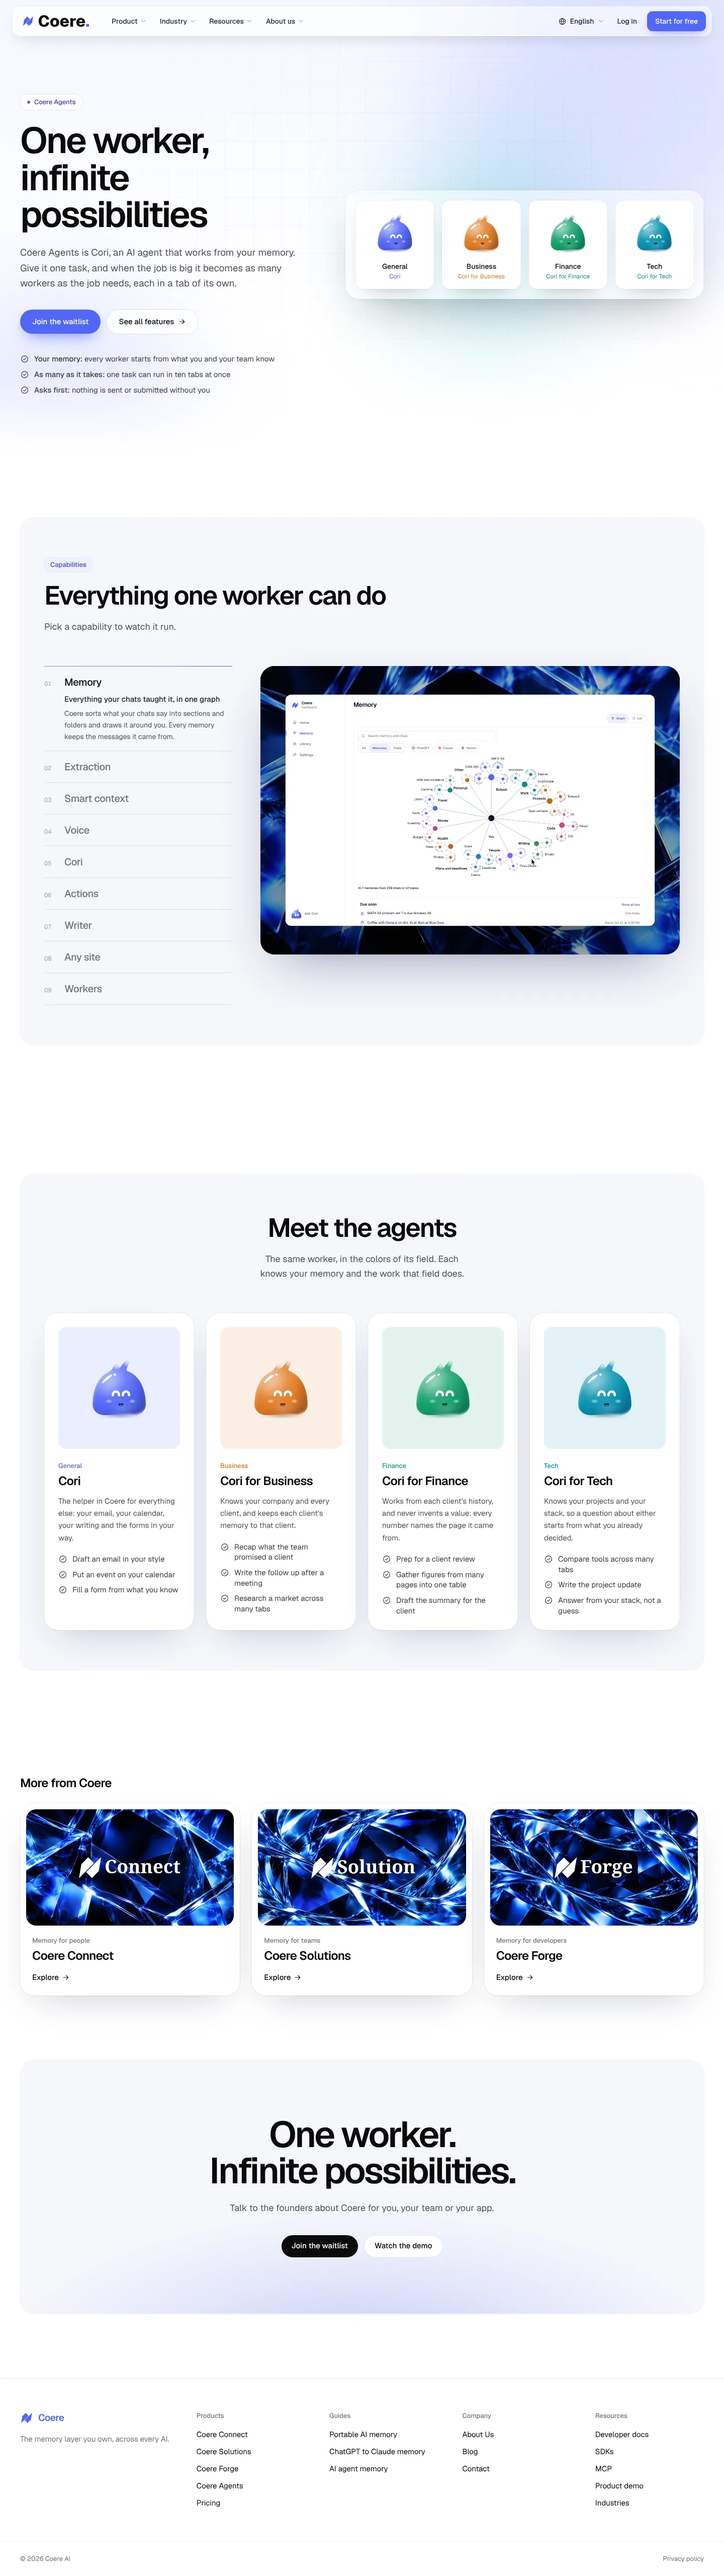
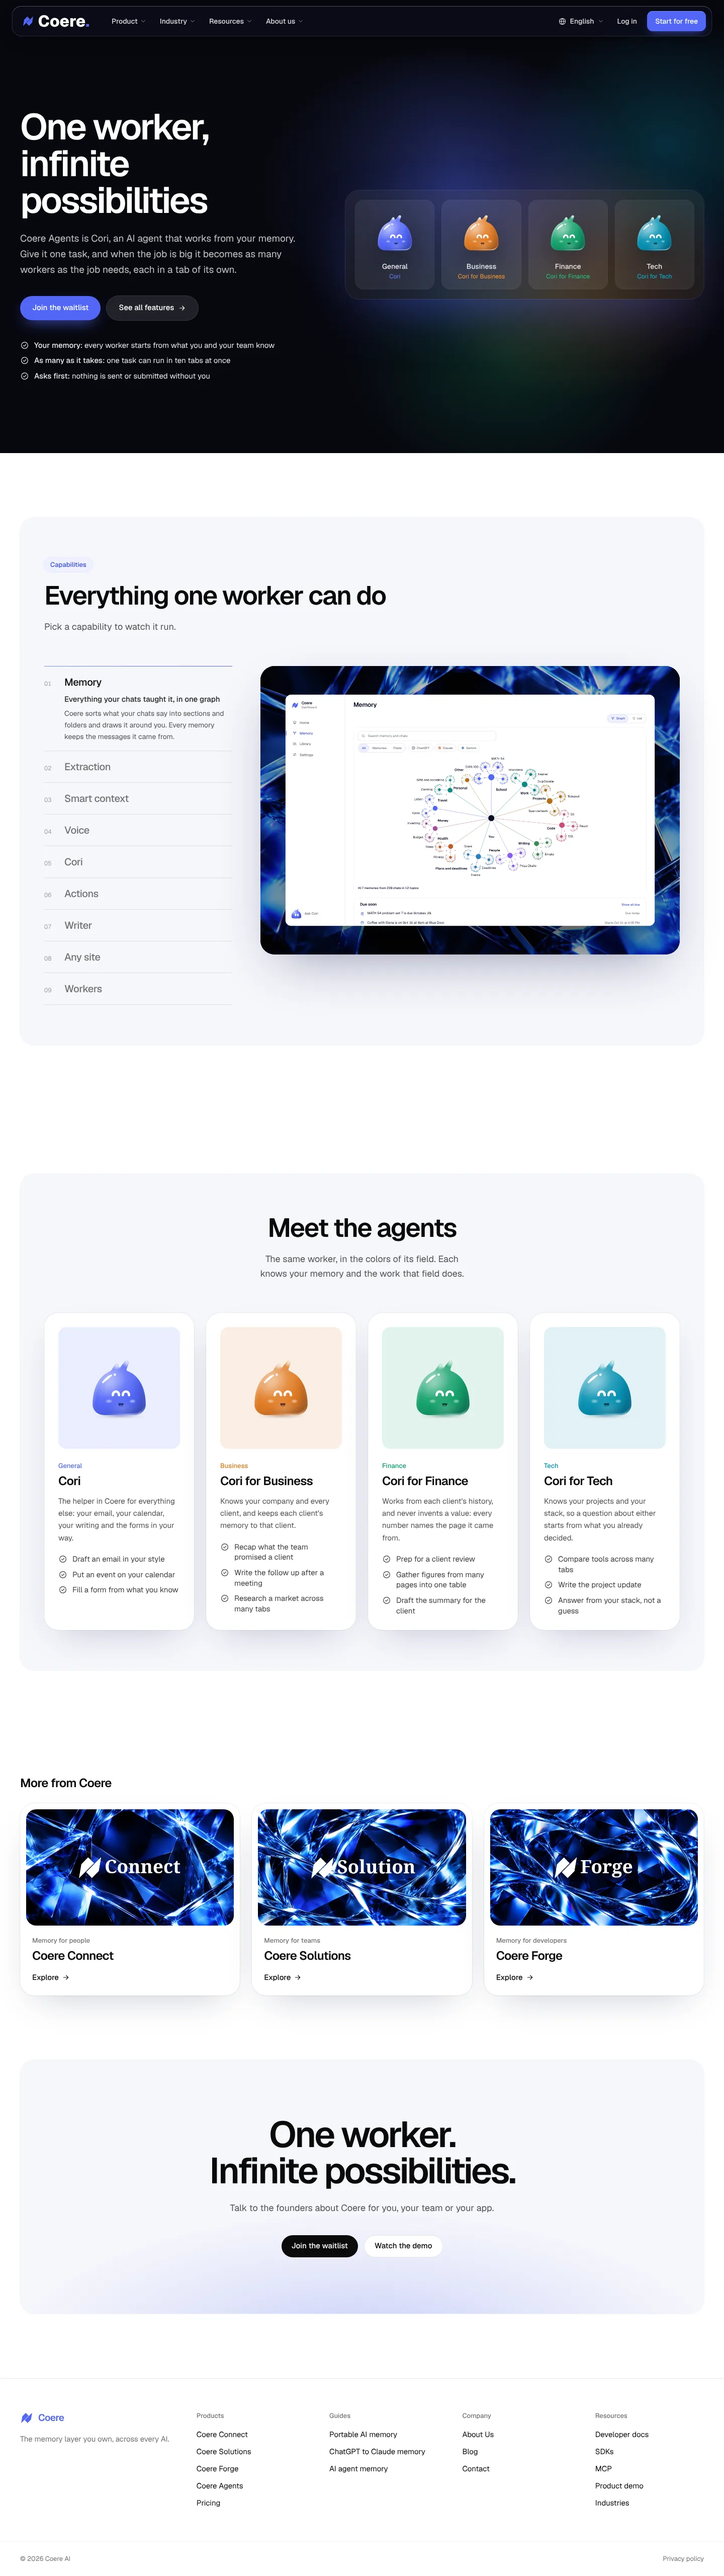
Retake the pictures of every hero this pass changed
The home, product, industry, pricing, careers, docs, waitlist and guide pictures show the heroes without the label pill, the dark home, Forge and Agents heroes, the industry photos and the beam wrapping round the app. They are taken with reduced motion, so LaserFlow and the pixel wall show their settled frame, and the captions say what each now shows.

Claude-Session: https://claude.ai/code/session_01Ur6uqNCXa3ecJ23BnM9D9o

Changed region(s): [[0.0, 0.0, 1.0, 0.1864]]

diff --git a/docs/screenshots/site/README.md b/docs/screenshots/site/README.md
@@ -8,9 +8,9 @@ Maya Collins, made up for these pictures.
 ## Home
 
 <p align="center">
-  <img src="home-hero.webp" width="100%" alt="The home page's first screen under the glass navbar: Accelerating Enterprise AI with Unified Context, the paragraph, Start for free and Watch demo on the left, and Extract all, the dashboard and the memory graph stacked on the right over blue slats, with a beam landing on the dashboard" />
+  <img src="home-hero.webp" width="100%" alt="The dark home hero under the dark glass navbar: Accelerating Enterprise AI with Unified Context, the paragraph, Start for free and Watch demo on the left over blue MicroSlats, and three tall tiles on the right: Coere saving chats cut off at the top, the dashboard with its rail, tokens saved, efficiency, time saved and recent chats, and the memory graph cut off at the foot" />
   <br />
-  <sub>The first screen under the glass navbar: what Coere does, the way in, and Extract all, the dashboard and the memory graph stacked beside it.</sub>
+  <sub>The first screen: what Coere does and the way in, beside Coere saving chats, the dashboard and the memory graph, running from the top of the hero to its foot.</sub>
 </p>
 
 | | |
@@ -27,8 +27,8 @@ The whole page: [home.webp](home.webp).
 
 | | |
 |---|---|
-| <img src="product-connect.webp" alt="The Coere Connect page from its hero down: Your memory, across every AI on blue and white iridescence, with a beam of Coere blue landing on the live app, then features by tab, the same chat with 97.7% fewer tokens, everything in Coere Connect, why people choose it and the other products" /><br /><sub>Coere Connect</sub> | <img src="product-solutions.webp" alt="The Coere Solutions page from its hero down: the hero on a dark LED wall of AI logos drawn in small square pixels round the dashboard, how a team shares one memory, the AIs it works with, everything in Coere Solutions and the other products" /><br /><sub>Coere Solutions</sub> |
-| <img src="product-forge.webp" alt="The Coere Forge page from its hero down: The memory API for your apps and agents on near black, with a dome of blue and white ASCII glyphs rising under the code, then the demo end to end, MCP, everything in Coere Forge and the other products" /><br /><sub>Coere Forge</sub> | <img src="product-agents.webp" alt="The Coere Agents page from its hero down: One worker, infinite possibilities on a soft blue backdrop beside the four agents on light glass, then the capabilities, the agents as soft cards and the other products" /><br /><sub>Coere Agents</sub> |
+| <img src="product-connect.webp" alt="The Coere Connect page from its hero down: Your memory, across every AI on Iridescence in Coere blue and white beside the live app, then features by tab, the same chat with 97.7% fewer tokens, everything in Coere Connect, why people choose it and the other products" /><br /><sub>Coere Connect</sub> | <img src="product-solutions.webp" alt="The Coere Solutions page from its hero down: the hero on a dark LED wall of AI logos drawn in small square pixels round the dashboard, with the beam washing over its top edge, how a team shares one memory, the AIs it works with, everything in Coere Solutions and the other products" /><br /><sub>Coere Solutions</sub> |
+| <img src="product-forge.webp" alt="The Coere Forge page from its hero down: The memory API for your apps and agents on a full field of blue and white ASCII glyphs over near black, with a beam of Coere blue landing on the code, then the demo end to end, MCP, everything in Coere Forge and the other products" /><br /><sub>Coere Forge</sub> | <img src="product-agents.webp" alt="The Coere Agents page from its hero down: One worker, infinite possibilities on near black beside the four agents on dark glass, then the capabilities, the agents as soft cards and the other products" /><br /><sub>Coere Agents</sub> |
 | <img src="phone-product-connect.webp" width="195" alt="The Coere Connect page's first screen at phone width, on its blue and white iridescence" /><br /><sub>Coere Connect at 390 wide</sub> | |
 
 ## Pricing
@@ -40,24 +40,24 @@ The whole page: [home.webp](home.webp).
 ## Industries
 
 <p align="center">
-  <img src="industries.webp" width="100%" alt="The industries page: Memory for every industry on a soft blue backdrop, who it is for as soft cards, then each industry with its photo" />
+  <img src="industries.webp" width="100%" alt="The industries page: Memory for every industry on white, who it is for as soft cards, then each industry with its photo" />
   <br />
   <sub>Every industry, each with the product it fits.</sub>
 </p>
 
 | | |
 |---|---|
-| <img src="industry-finance.webp" alt="The finance industry page's first screen: Coere for finance on a soft blue backdrop, with a beam of Coere blue landing on the app" /><br /><sub>Finance</sub> | <img src="industry-technology.webp" alt="The technology industry page's first screen: Coere for technology on a soft blue backdrop, with a beam of Coere blue landing on the app" /><br /><sub>Technology</sub> |
-| <img src="industry-commerce.webp" alt="The commerce industry page's first screen: Coere for commerce on a soft blue backdrop, with a beam of Coere blue landing on the app" /><br /><sub>Commerce</sub> | <img src="industry-consumer.webp" alt="The consumer industry page's first screen: Coere for consumer on a soft blue backdrop, with a beam of Coere blue landing on the app" /><br /><sub>Consumer</sub> |
-| <img src="industry-manufacturing.webp" alt="The manufacturing industry page's first screen: Coere for manufacturing on a soft blue backdrop, with a beam of Coere blue landing on the app" /><br /><sub>Manufacturing</sub> | <img src="industry-energy.webp" alt="The energy industry page's first screen: Coere for energy on a soft blue backdrop, with a beam of Coere blue landing on the app" /><br /><sub>Energy</sub> |
-| <img src="industry-education.webp" alt="The education industry page's first screen: Coere for education on a soft blue backdrop, with a beam of Coere blue landing on the app" /><br /><sub>Education</sub> | <img src="industry-legal.webp" alt="The legal industry page's first screen: Coere for legal on a soft blue backdrop, with a beam of Coere blue landing on the app" /><br /><sub>Legal</sub> |
+| <img src="industry-finance.webp" alt="The finance industry page's first screen: Coere for finance on the field's own photo beside the app" /><br /><sub>Finance</sub> | <img src="industry-technology.webp" alt="The technology industry page's first screen: Coere for technology on the field's own photo beside the app" /><br /><sub>Technology</sub> |
+| <img src="industry-commerce.webp" alt="The commerce industry page's first screen: Coere for commerce on the field's own photo beside the app" /><br /><sub>Commerce</sub> | <img src="industry-consumer.webp" alt="The consumer industry page's first screen: Coere for consumer on the field's own photo beside the app" /><br /><sub>Consumer</sub> |
+| <img src="industry-manufacturing.webp" alt="The manufacturing industry page's first screen: Coere for manufacturing on the field's own photo beside the app" /><br /><sub>Manufacturing</sub> | <img src="industry-energy.webp" alt="The energy industry page's first screen: Coere for energy on the field's own photo beside the app" /><br /><sub>Energy</sub> |
+| <img src="industry-education.webp" alt="The education industry page's first screen: Coere for education on the field's own photo beside the app" /><br /><sub>Education</sub> | <img src="industry-legal.webp" alt="The legal industry page's first screen: Coere for legal on the field's own photo beside the app" /><br /><sub>Legal</sub> |
 
 ## Resources, about and guides
 
 | | |
 |---|---|
-| <img src="resources.webp" alt="The developer docs' first page under a band of soft blue, with the list of pages on the left" /><br /><sub>The developer docs</sub> | <img src="resources-endpoints.webp" alt="The docs' Endpoints page, with each route and its parameters" /><br /><sub>One docs page: Endpoints</sub> |
-| <img src="about.webp" alt="The dark about page down to its team: the Coere mark in liquid chrome in a deep blue light over About us, then four steps from AI is fragmented to the memory is yours on glass panels" /><br /><sub>About, down to where the team starts</sub> | <img src="portable-ai-memory.webp" alt="The Portable AI memory guide, opening on a soft blue backdrop with a beam landing on the app" /><br /><sub>A guide: Portable AI memory</sub> |
+| <img src="resources.webp" alt="The developer docs' first page on white, with the list of pages on the left" /><br /><sub>The developer docs</sub> | <img src="resources-endpoints.webp" alt="The docs' Endpoints page, with each route and its parameters" /><br /><sub>One docs page: Endpoints</sub> |
+| <img src="about.webp" alt="The dark about page down to its team: the Coere mark in liquid chrome in a deep blue light over About us, then four steps from AI is fragmented to the memory is yours on glass panels" /><br /><sub>About, down to where the team starts</sub> | <img src="portable-ai-memory.webp" alt="The Portable AI memory guide, opening on white beside the app" /><br /><sub>A guide: Portable AI memory</sub> |
 | <img src="privacy-top.webp" alt="The privacy policy: What Coere reads, keeps and sends, with the short version beside the list of its parts" /><br /><sub>The privacy policy, the short version first. <a href="privacy.webp">The whole policy</a></sub> | <img src="developer-waitlist.webp" alt="Give your app's users memory from day one on a soft blue backdrop, with a work email field, Join the waitlist and a TypeScript sample beside it" /><br /><sub>The developer waitlist</sub> |
 
 ## Blog and careers

diff --git a/README.md b/README.md
@@ -35,9 +35,9 @@ pictures: [the site](docs/screenshots/site/README.md),
 ### The site
 
 <p align="center">
-  <img src="docs/screenshots/site/home-hero.webp" width="100%" alt="The home page's first screen under the glass navbar: Accelerating Enterprise AI with Unified Context, the paragraph, Start for free and Watch demo on the left, and on the right Extract all, the dashboard with tokens saved, efficiency, time saved and recent chats, and the memory graph, stacked over blue slats with a beam landing on the dashboard" />
+  <img src="docs/screenshots/site/home-hero.webp" width="100%" alt="The dark home hero under the dark glass navbar: Accelerating Enterprise AI with Unified Context, the paragraph, Start for free and Watch demo on the left over blue MicroSlats, and on the right three tall tiles: Coere saving chats cut off at the top, the dashboard with tokens saved, efficiency, time saved and recent chats, and the memory graph cut off at the foot" />
   <br />
-  <sub>The home page under the glass navbar: what Coere does, and Extract all, the dashboard and the memory graph stacked beside it. <a href="docs/screenshots/site/home.webp">The whole page</a>.</sub>
+  <sub>The home page: what Coere does, beside Coere saving chats, the dashboard and the memory graph. <a href="docs/screenshots/site/home.webp">The whole page</a>.</sub>
 </p>
 
 <table>
